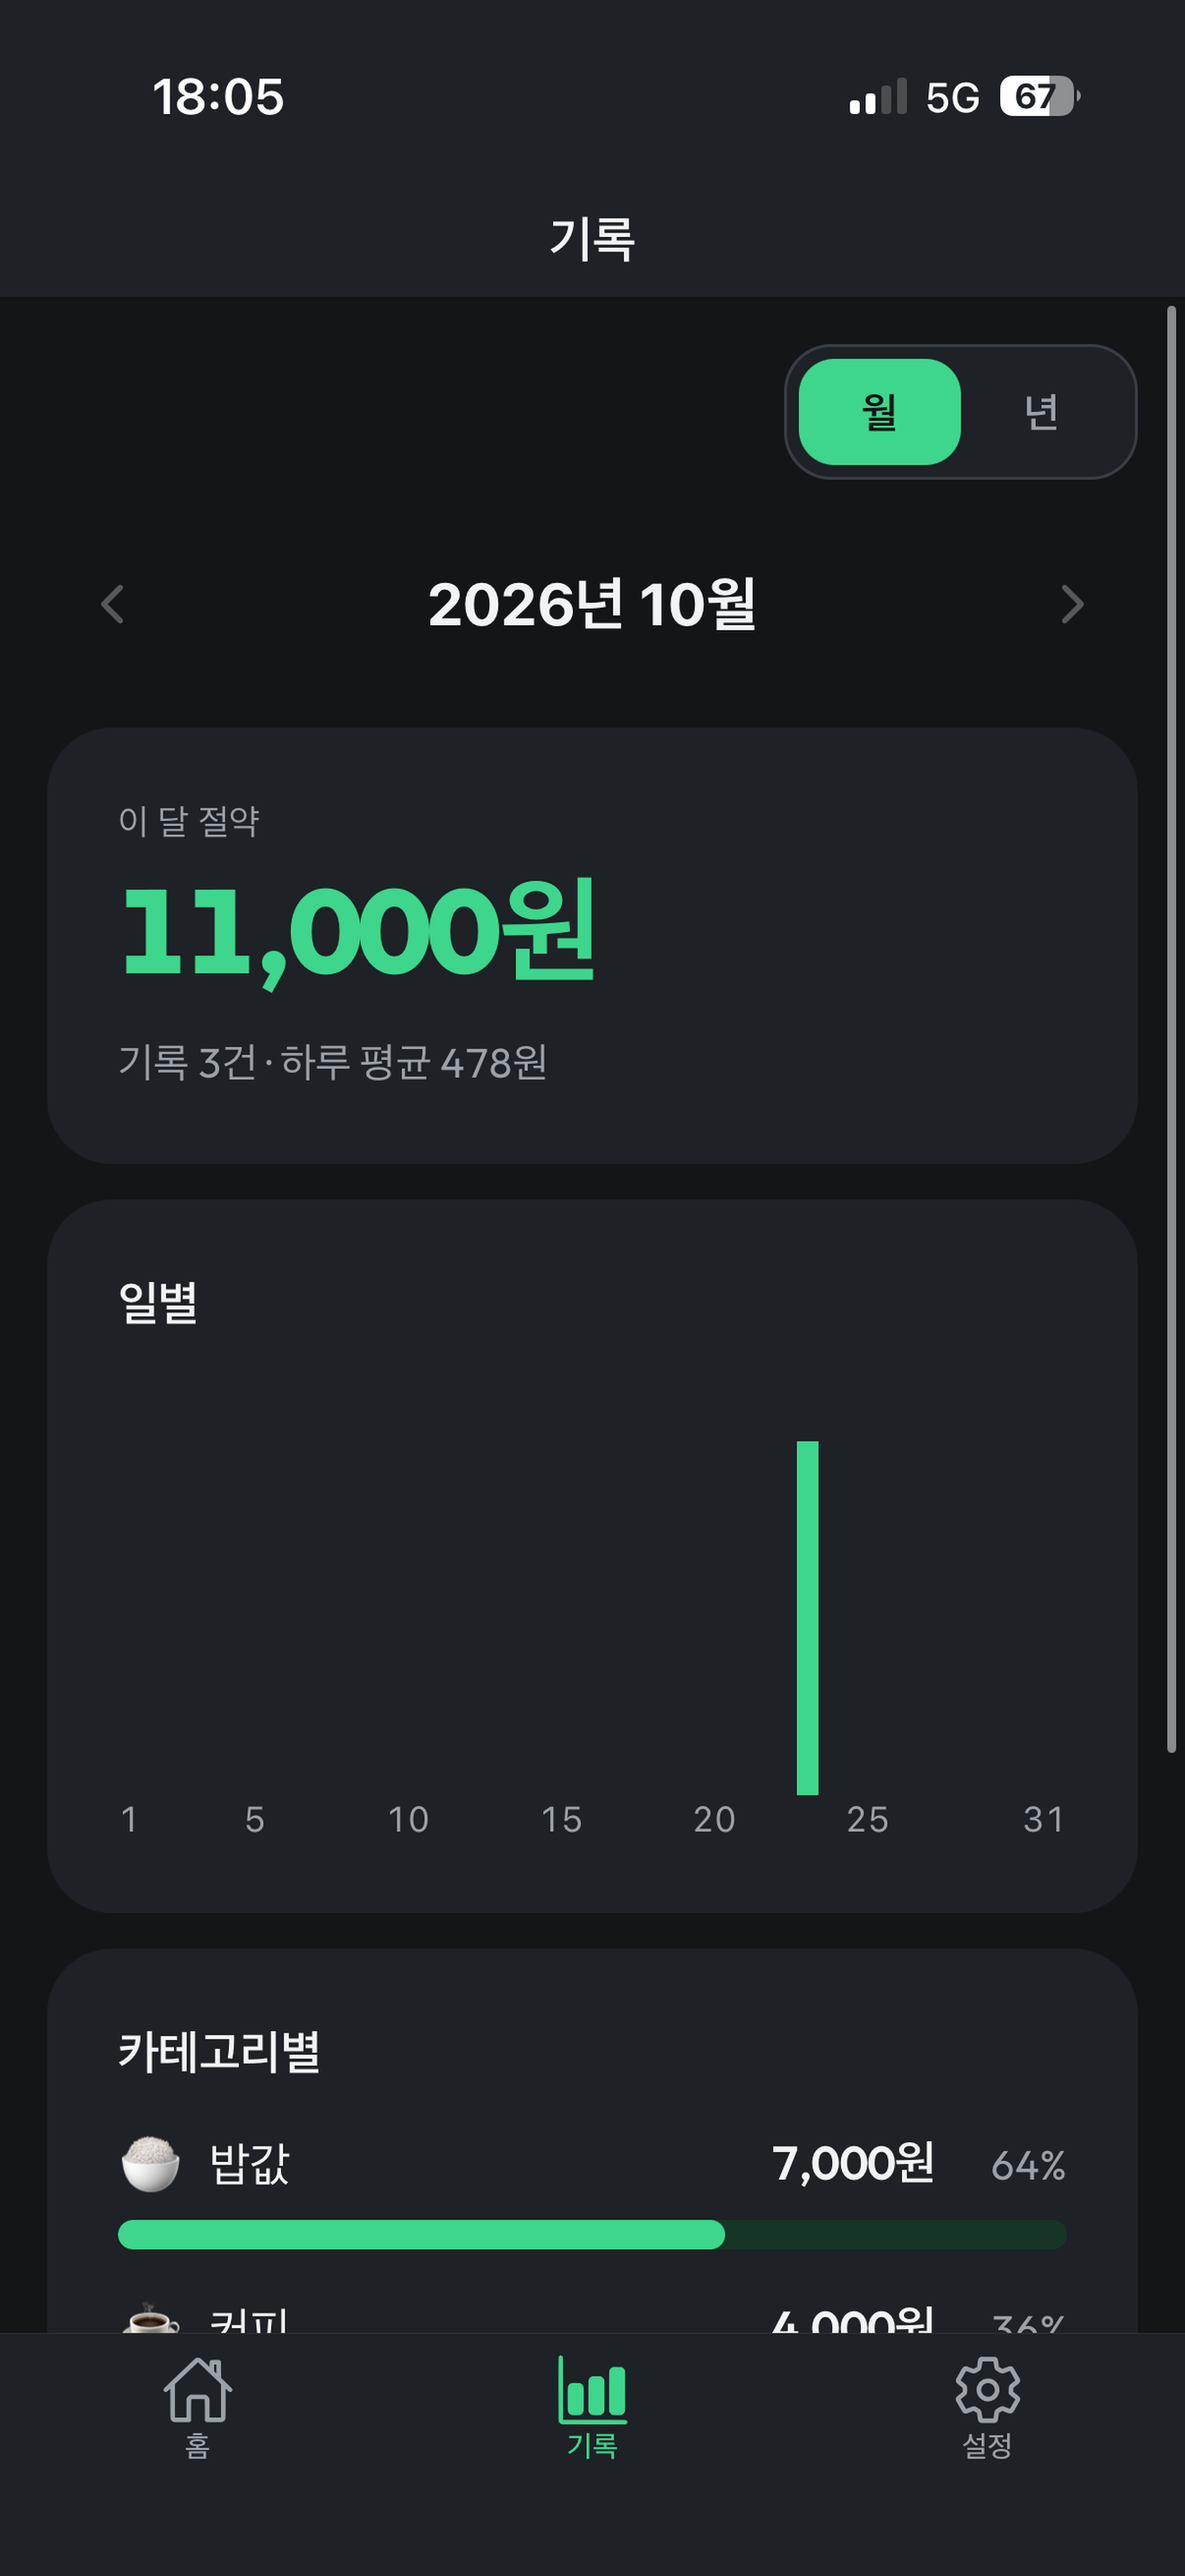
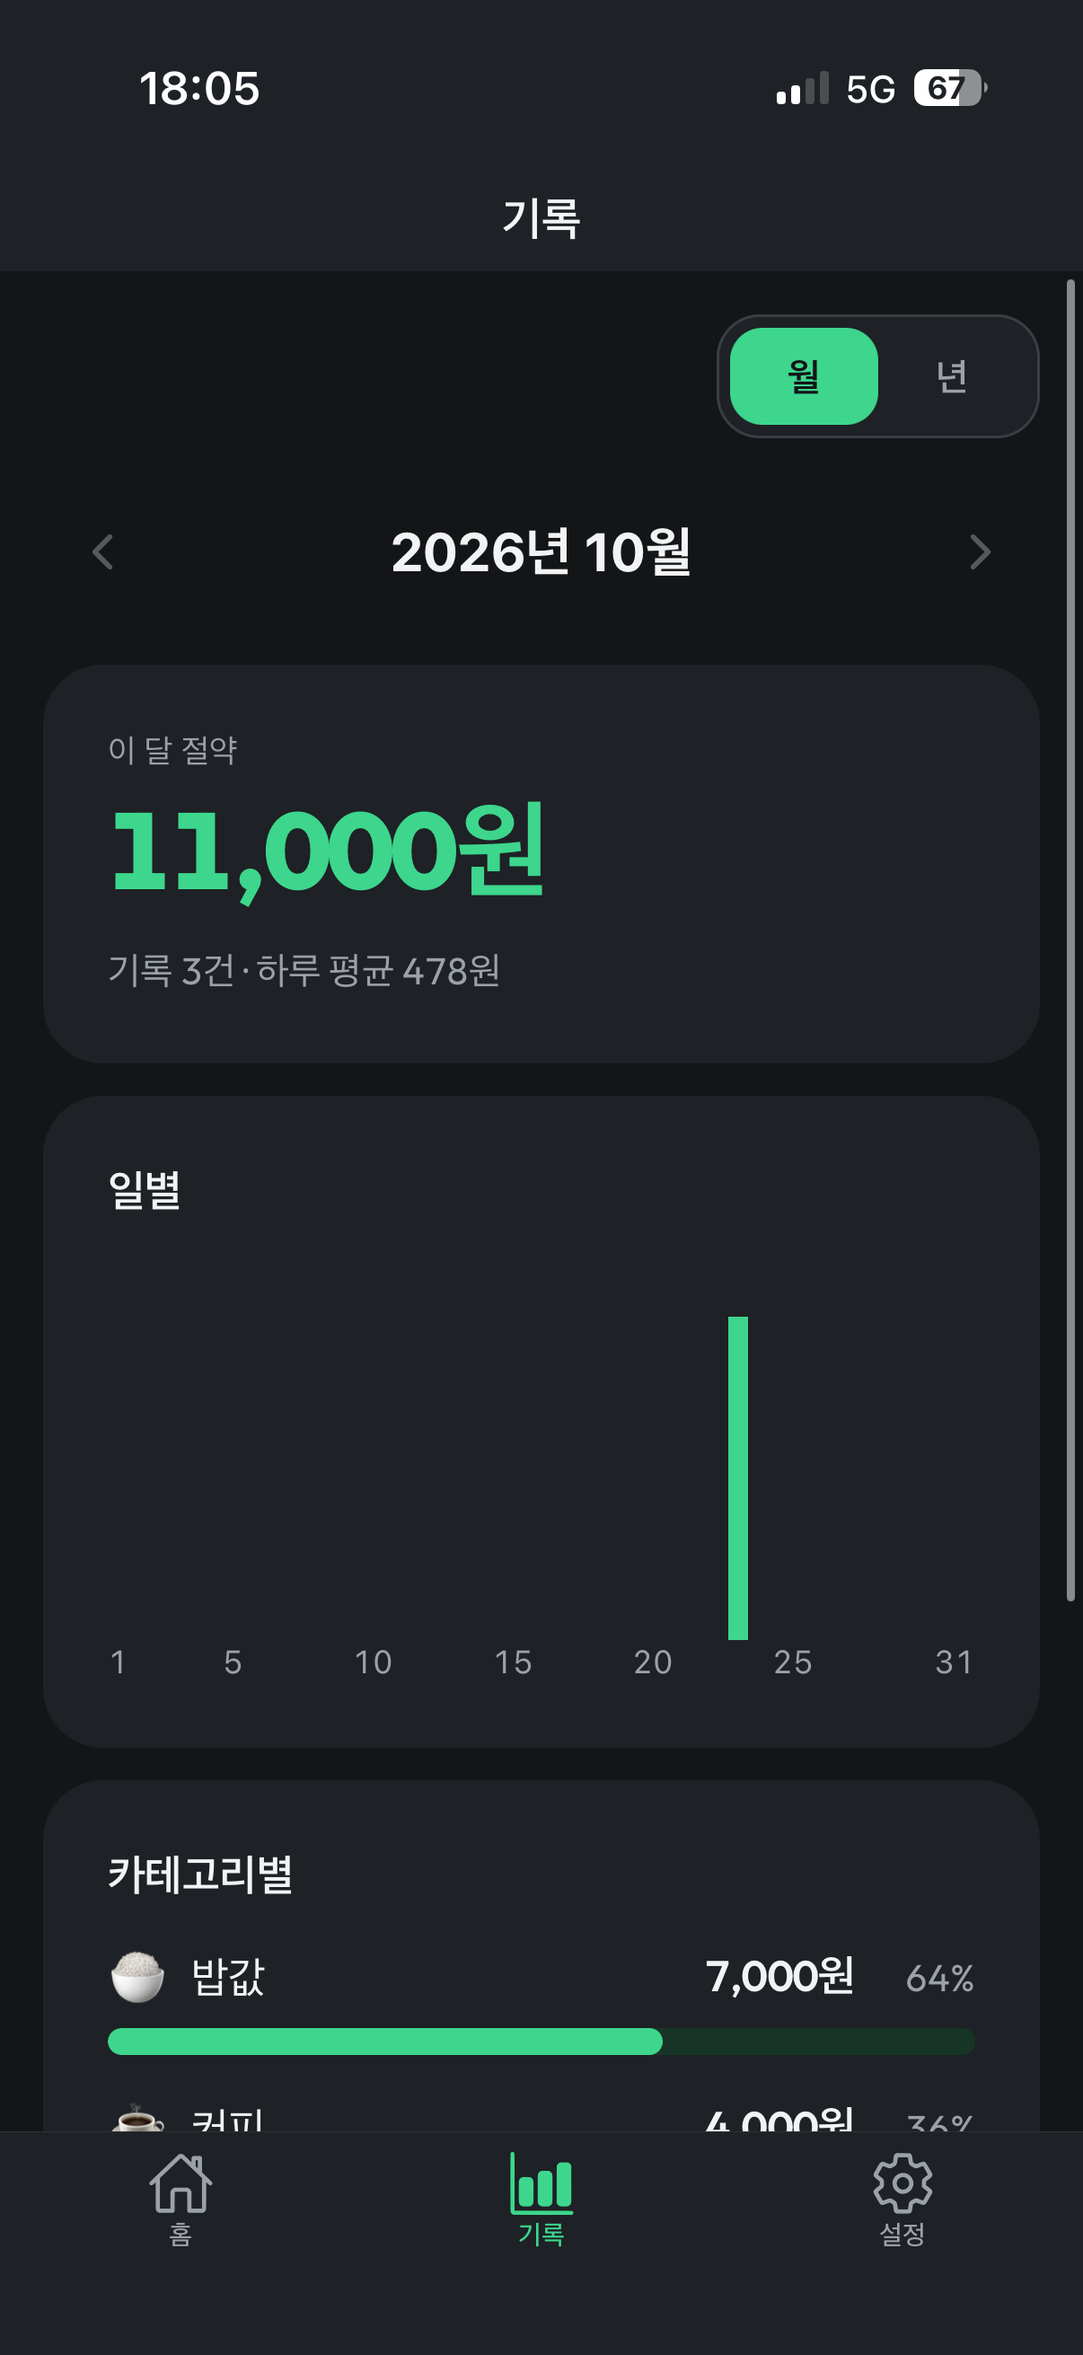
docs: App Store 스크린샷을 원본 1206×2622 로 교체
- App Store Connect 의 "Dynamic Island 지원 iPhone (중형 디스플레이)" 칸은 1206×2622·1179×2556 만 받음
- 키운 1320×2868 은 '파일 크기가 유효하지 않습니다' 로 거절 → 아이폰 17 Pro 캡처 원본 사용
- APP-STORE.md · README 규격 설명 수정

diff --git a/README.md b/README.md
@@ -308,7 +308,7 @@ npx expo-doctor    # 의존성 호환 점검
 - [개인정보 처리방침](docs/PRIVACY.md): 데이터를 수집하지 않습니다. 기록은 아이폰에만 저장합니다
 - [지원 페이지](docs/SUPPORT.md): 문의 방법과 자주 묻는 질문
 - [App Store 입력 가이드](docs/APP-STORE.md): App Store Connect 화면별 입력값, 스크린샷 계획, 심사 메모
-- [스토어 스크린샷](docs/appstore/): 6.9인치 규격 1320×2868, 아이폰 17 Pro 캡처를 키움
+- [스토어 스크린샷](docs/appstore/): 아이폰 17 Pro 원본 1206×2622 (App Store Connect "Dynamic Island 지원 iPhone" 칸 규격)
 
 ### 안드로이드 APK
 
